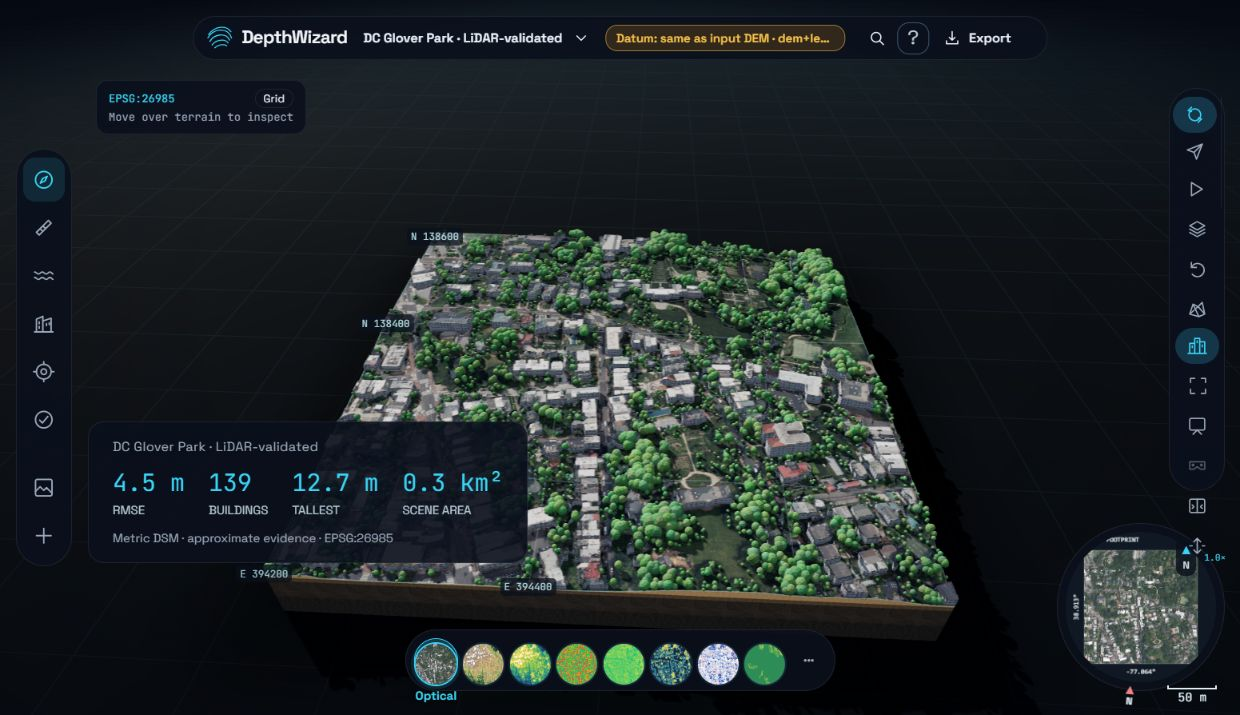
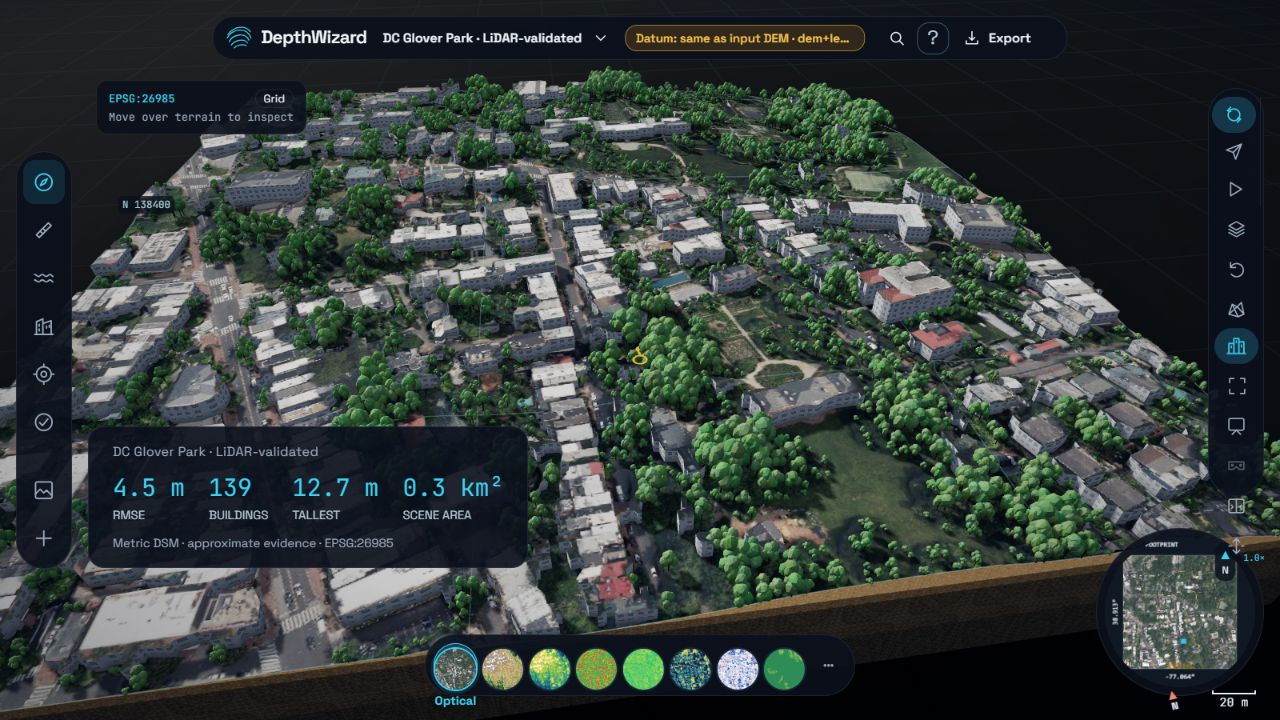
docs: update README for reliability fixes and branched trees

diff --git a/README.md b/README.md
@@ -1,9 +1,9 @@
 # RUBIQX-Depth (DepthWizard)
 
-**One ordinary satellite image → a calibrated 3D surface model and a disaster-ready digital twin.**
+**One ordinary satellite image → an estimated 3D surface and a workspace for disaster screening.**
 Smart India Hackathon 2026 · Problem Statement 26175 (ISRO / SAC) · Team RUBIQX
 
-![DepthWizard: current city UI with fitted roofs, grounded tree crowns and a coordinate grid](docs/images/city-current.jpg)
+![DepthWizard: current city UI with fitted roofs, branching trees and a coordinate grid](docs/images/city-current.jpg)
 
 | Absolute height, 30 held-out GAMUS tiles | Reference-held-out DC LiDAR check (2 scenes) | Runs offline |
 |---|---|---|
@@ -51,7 +51,7 @@ The first visit opens a gallery of demo scenes. Put the fine-tuned checkpoint in
 
 ## Gallery
 
-| **City** – 139 fitted building candidates, grounded tree crowns and a CRS coordinate grid | **Bengaluru** – 10 m imagery opens with Topo at 3× vertical exaggeration |
+| **City** – 139 fitted building candidates, branching tree crowns and a CRS coordinate grid | **Bengaluru** – 10 m imagery opens with Topo at 3× vertical exaggeration |
 |---|---|
 | ![Current city viewer](docs/images/city-current.jpg) | ![Bengaluru terrain overview](docs/images/bengaluru-current.jpg) |
 | **Slope hazard** (true slope, 0–30° / 30–45° / >45°) | **Flood & response** – connected flood, buildings and people exposed, mission planning |
@@ -84,8 +84,36 @@ The first visit opens a gallery of demo scenes. Put the fine-tuned checkpoint in
 | Height model | Off-the-shelf depth model trained on street-level photos | Fine-tuned on aerial LiDAR above-ground height |
 | Metres | Assumed, hand-scaled, or only after manual pins | Automatic calibration from the best available evidence, always labelled |
 | Existing DEM input | Displayed as if it were an estimate | Shown as *Input DEM (not estimated)*; used only for calibration of image estimates |
-| Uncertainty | None | Per-pixel map and per-building confidence (ranks reliability; see benchmarks §5) |
+| Uncertainty | None | Multi-pass ensemble reliability and provisional metric error estimates; building scores state their basis (see benchmarks §5) |
 | Proof | Screenshots | Reference-held-out two-scene LiDAR check vs the DEM-only baseline, with calibration provenance |
+
+## Latest updates · 3 October 2026
+
+- **Tree rendering:** Roof-fit City now uses branching trunks and 5–6 irregular foliage clusters per tree, varied silhouettes and subdued green shades. Trees are illustrative instances placed from canopy candidates, not individually surveyed trees or classified species. Ground and canopy-top elevations retain the existing DSM/DTM estimates; exported rasters and accuracy scores are unchanged. Trees remain off for relative scenes.
+- **Model failures:** processing stops with a clear error when inference fails. Web uploads never silently substitute a heuristic; CLI prototype runs can explicitly use `--allow-fallback`, with results labelled unsuitable for accuracy evaluation.
+- **Reliability and uncertainty:** single-pass and heuristic runs produce no pixel reliability or uncertainty maps. Metric uncertainty is provisional and calibrated on two DC scenes; relative output is unitless ensemble spread. Building scores distinguish ensemble agreement from roof-height consistency. Scores are not accuracy probabilities.
+- **Export clarity:** menus and reports distinguish full-grid GeoTIFFs from sampled display meshes and point clouds. The complete ZIP includes raw metric ensemble spread when available, alongside the provisional error map and provenance.
+- **Disaster tools:** flood assumptions remain visible with details collapsed. Slope bands describe angles rather than safety, and routes, refuge candidates, runout and relay coverage state their screening limits.
+- **Robustness:** switching between City and Surface while a scene is loading no longer attempts to rebuild an absent height grid. The latest local verification passed **65 pytest tests** and JavaScript syntax checks; the updated City view was inspected in the browser.
+
+The rendering and reporting fixes do not establish improved height accuracy. See
+[completed limitation fixes and remaining evidence gaps](docs/limitation-fixes.md).
+
+### Disaster and response coverage
+
+| Implemented | Scope |
+|---|---|
+| Flood inundation and rainfall playback | Edge-connected, point-source or level-plane flooding; depth, affected buildings and a 60% runoff rainfall scenario |
+| Landslide screening | Susceptibility index and simplified downhill traces identifying exposed buildings |
+| Evacuation routing | Dry terrain paths toward high ground, avoiding flooded cells, footprints and steep slopes |
+| Vertical refuge candidates | Buildings with sufficient estimated roof clearance and reliability for field inspection |
+| Population exposure | Floor-area/storey occupancy proxy, explicitly an estimate |
+| Communication relay placement | Tower/drone line-of-sight coverage; no radio-propagation model |
+| Supporting analysis | Viewsheds, height/slope probes, distance and profiles, and before/after height-change detection |
+
+Earthquake, cyclone, tsunami and wildfire simulations are not implemented.
+These tools require suitable georeferenced metric scenes; operational use requires
+independent data and field verification.
 
 ## New in v3 (viewer and workflow)
 
@@ -103,7 +131,7 @@ The first visit opens a gallery of demo scenes. Put the fine-tuned checkpoint in
 | **Products** | DSM, DTM, nDSM and per-pixel uncertainty GeoTIFFs · CityJSON with LoD1 or supported fitted LoD2 roofs · GLB/OBJ/PLY · HTML report · evidence JSON |
 | **3D** | Textured city on bare ground, fitted roof hypotheses, adjustable sun lighting, geometric DEM-vs-DSM swipe, orbit/fly/tour, one-click flythrough video |
 | **Analysis** | Connected flood (edge / clicked source) with depth, volume and buildings affected · landslide susceptibility · viewshed · rooftop solar · pre/post change detection · profiles, 3D distance, cut/fill |
-| **Engineering** | 12 automated tests + CI, REST API with `/docs`, ONNX export, PyInstaller build script, [model card](docs/MODEL_CARD.md), [roadmap status](docs/ROADMAP_STATUS.md) |
+| **Engineering** | 65 automated tests at the latest local verification + CI, REST API with `/docs`, ONNX export, PyInstaller build script, [model card](docs/MODEL_CARD.md), [roadmap status](docs/ROADMAP_STATUS.md) |
 
 ### Mission workbench additions
 
@@ -293,7 +321,7 @@ On those two Quesenbank crops, the fine-tuned model with the nonnegative DEM-fus
 
 - **Evaluation breadth.** Absolute accuracy is measured on 30 GAMUS tiles from three US cities and two DC LiDAR scenes near the training region. There is no Indian, Cartosat, hilly or dense-forest validation yet; that is the top priority, followed by more non-urban LiDAR sites.
 - **Failure cases.** Leaf-off forest, large flat roofs and isolated tall trees are the worst cases on held-out tiles; see the [failure-case figure](docs/images/failure_cases.jpg) and [BENCHMARKS §1c–1d](docs/BENCHMARKS.md), which also lists approaches that did not help.
-- **Building heights.** Tall objects are still under-estimated on real imagery: with the v2 model the median Glover Park roof is 6.4 m against 9.1 m in the LiDAR (previous model 4.3 m against 9.4 m), and pixels above 15 m are about 7.6 m low. One supplied height or a few GCPs correct most of this.
+- **Building heights.** Tall objects are still under-estimated on real imagery: with the v2 model the median Glover Park roof is 6.4 m against 9.1 m in the LiDAR (previous model 4.3 m against 9.4 m), and pixels above 15 m are about 7.6 m low. Height anchors can correct scene scale, but local roof and canopy errors remain; verify improvement against an independent reference. Copernicus height scaling and multi-resolution blending remain disabled by default because the measured experiments did not consistently improve results ([details](docs/limitation-fixes.md)).
 - **Uncertainty.** Metric `uncertainty.tif` uses an error model fitted on only two DC urban scenes (leave-one-scene-out 1σ coverage 52–88 %); coverage on other domains is unvalidated. Relative outputs contain unitless ensemble spread, not metric error bars. Single-pass and heuristic runs produce no uncertainty or pixel reliability map. Building reliability may instead describe roof-height spread; it is not an accuracy probability.
 
 - Monocular height is weakest on:
